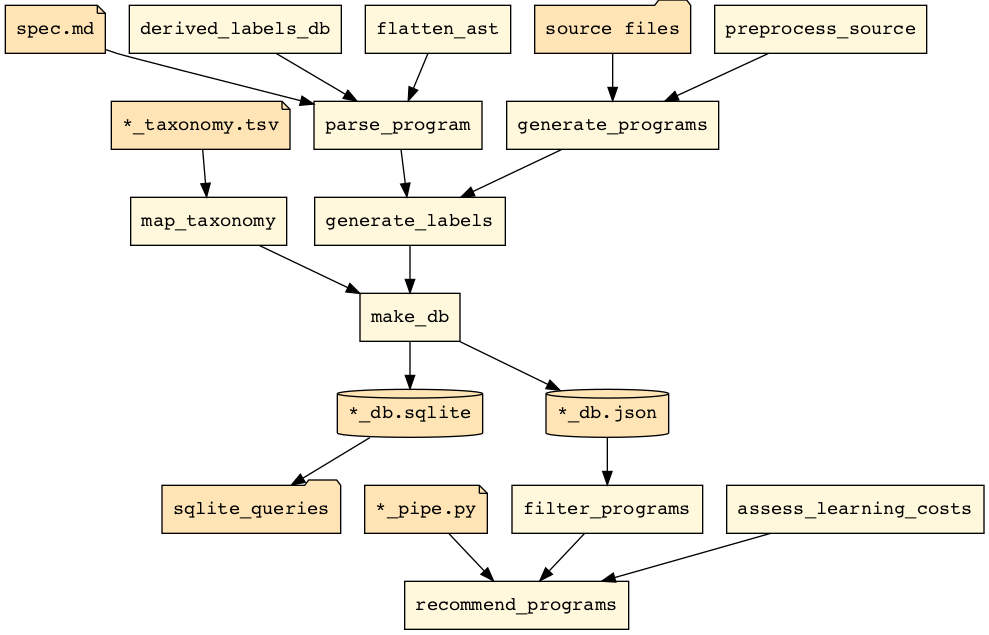
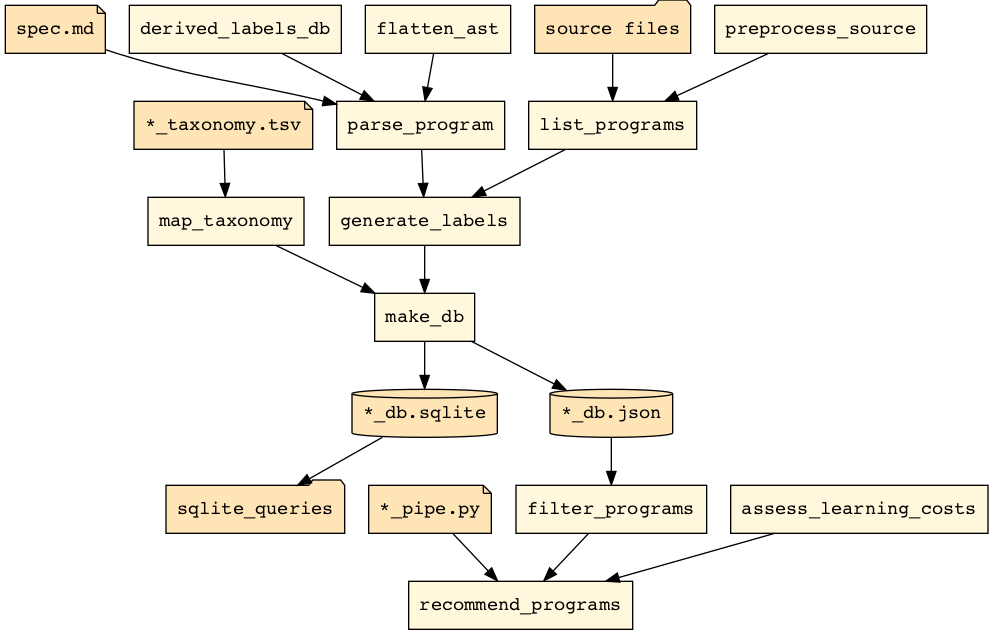
list programs instead of generating them

diff --git a/paroxython/generate_labels.py b/paroxython/generate_labels.py
@@ -4,7 +4,7 @@ from pathlib import Path
 from typing import Iterator, List, Set
 
 from user_types import Label, LabelsSpans, Program, Source
-from generate_programs import generate_programs
+from list_programs import list_programs
 from parse_program import ProgramParser
 
 
@@ -12,7 +12,7 @@ def generate_labelled_sources(directory: Path, *args, **kargs) -> Iterator[Sourc
     """For each program, yield its source with its labels in comment."""
     parse = ProgramParser()
     separator = "-" * 88
-    for program in generate_programs(directory, *args, **kargs):
+    for program in list_programs(directory, *args, **kargs):
         yield Source(f"# {separator}\n# {program.path}\n# {separator}")
         lines = program.source.splitlines()
         comments: List[Set[str]] = [set() for _ in lines]
@@ -28,7 +28,7 @@ def generate_labelled_sources(directory: Path, *args, **kargs) -> Iterator[Sourc
 def generate_labelled_programs(directory: Path, *args, **kargs) -> Iterator[Program]:
     """For each program, yield its label list, lexicographically sorted."""
     parse = ProgramParser()
-    for program in generate_programs(directory, *args, **kargs):
+    for program in list_programs(directory, *args, **kargs):
         label_dict: LabelsSpans = defaultdict(list)
         for (label_name, spans) in parse(program):
             for span in spans:

diff --git a/helpers/draw_flow.py b/helpers/draw_flow.py
@@ -27,13 +27,13 @@ Path(f"{base}.dot").write_text(
             '"*_db.sqlite" -> sqlite_queries',
             '"*_db.json" -> filter_programs',
             '"spec.md" -> parse_program',
-            '"source files" -> generate_programs',
+            '"source files" -> list_programs',
             '"*_taxonomy.tsv" -> map_taxonomy',
             '"*_pipe.py" -> recommend_programs',
             # Add invisible edges to make the layout more compact
             "sqlite_queries -> recommend_programs  [style=invis]",
             '"*_db.sqlite" -> "*_pipe.py"  [style=invis]',
-            'generate_programs -> "*_db.json"  [style=invis]',
+            'list_programs -> "*_db.json"  [style=invis]',
         ]
         + [
             f"{imported_name} -> {name}"

diff --git a/paroxython/list_programs.py b/paroxython/list_programs.py
@@ -19,7 +19,7 @@ match_excluded = regex.compile(
 ).match
 
 
-def generate_programs(directory: Path, strategy="strip_docs") -> Iterator[Program]:
+def list_programs(directory: Path, strategy="strip_docs") -> Iterator[Program]:
     """Yield all Programs of a given directory.
 
     Each Program (cf. declaration) includes:
@@ -48,7 +48,7 @@ def generate_programs(directory: Path, strategy="strip_docs") -> Iterator[Progra
 if __name__ == "__main__":
     datetime = __import__("datetime").datetime
     directory = Path("../Algo/programs/")
-    for program in generate_programs(directory):
+    for program in list_programs(directory):
         path = directory / program.path
         print(datetime.fromtimestamp(path.stat().st_mtime))
         print(program.source)

diff --git a/tests/test_parse_program.py b/tests/test_parse_program.py
@@ -4,7 +4,7 @@ import regex  # type: ignore
 
 import context
 from make_snapshot import make_snapshot
-from paroxython.generate_programs import generate_programs
+from paroxython.list_programs import list_programs
 from paroxython.parse_program import ProgramParser
 from paroxython.preprocess_source import (
     centrifugate_hints,
@@ -75,7 +75,7 @@ def test_label_presence(capsys):
     all_names = set()
     present_names = set()
     result = []
-    for program in generate_programs(Path("tests/data/simple/")):
+    for program in list_programs(Path("tests/data/simple/")):
         labels = parse(Program(source=program.source), yield_failed_matches=True)
         for (name, spans) in labels:
             all_names.add(name)

diff --git a/paroxython/make_db.py b/paroxython/make_db.py
@@ -178,7 +178,14 @@ def prepared(tags):
 
 
 if __name__ == "__main__":
-    directories = ["../Python/project_euler", "../Python/maths", "../algo/programs", "paroxython"]
+    # fmt:off
+    directories = [
+        # "../Python/project_euler",
+        # "../Python/maths",
+        "../algo/programs",
+        # "paroxython"
+    ]
+    # fmt:on
     for directory in directories:
         db = Database(Path(directory))
         db.write_json()

diff --git a/tests/test_list_programs.py b/tests/test_list_programs.py
@@ -2,11 +2,11 @@ from pathlib import Path
 import pytest
 
 import context
-from paroxython.generate_programs import generate_programs
+from paroxython.list_programs import list_programs
 
 
-def test_generate_programs():
-    result = generate_programs(Path("tests/data/simple"))
+def test_list_programs():
+    result = iter(list_programs(Path("tests/data/simple")))
 
     program = next(result)
     assert program.path.name == "assignment.py"

diff --git a/paroxython/user_types.py b/paroxython/user_types.py
@@ -61,6 +61,8 @@ class Program(NamedTuple):
     deletion: LabelsSpans = {}
     labels: Labels = []
 
+Programs = List[Program]
+
 ProgramPatterns = List[str]
 
 # Serialization-ready types used for the JSON database
